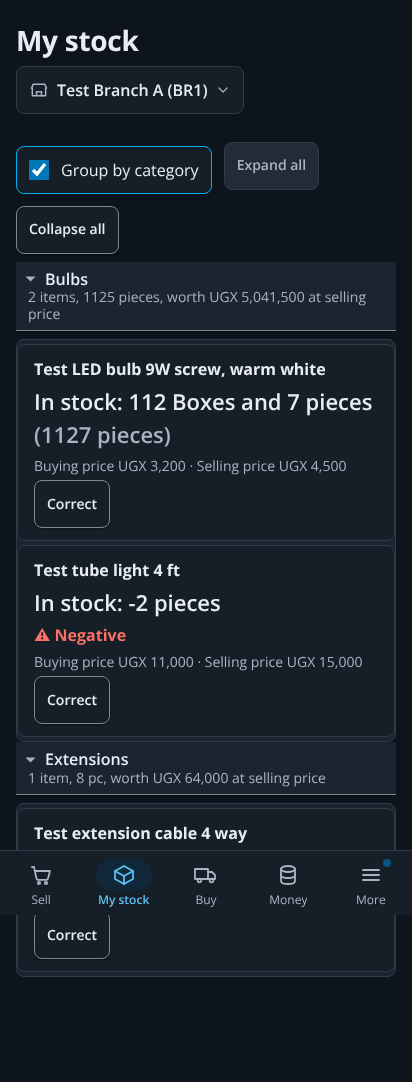
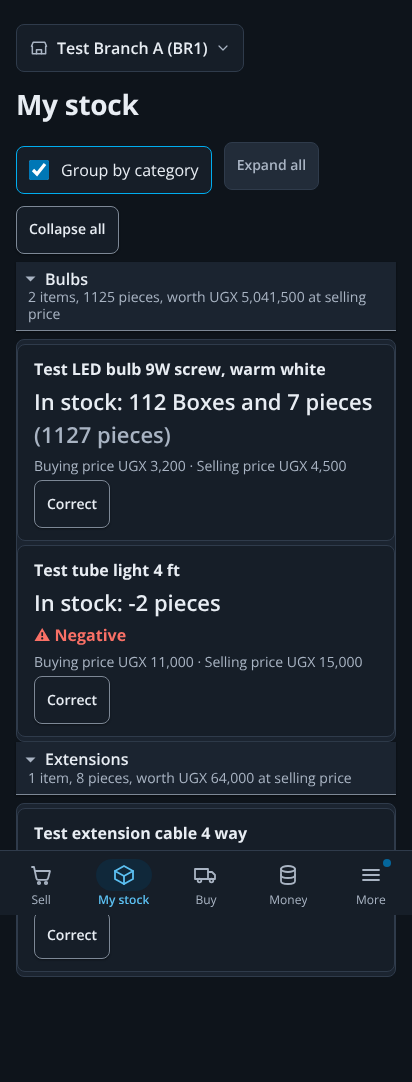
Draw the shop label once in the staff layout, on every page (#680)
ShopHere moves to branch-picker.tsx and the staff layout draws it above
every page's content, phone and laptop, retail or not; Gate and Retail
home no longer draw their own. The text-match route guard is gone:
shop-here-layout.dom.test.tsx renders the real staff layout on the
retail mock and checks one label above the content of a retail page,
More and Approvals. The 412px harness, its pictures, design-system.md
and UI rule 20 follow.

Changed region(s): [[0.0291, 0.0305, 0.5534, 0.122], [0.233, 0.7015, 0.8447, 0.732], [0.932, 0.793, 0.9612, 0.8235]]

diff --git a/frontend/src/areas/staff/retail/shop-here.dom.test.tsx b/frontend/src/areas/staff/retail/shop-here.dom.test.tsx
@@ -1,17 +1,13 @@
 // @vitest-environment jsdom
 import { act, cleanup, fireEvent, render, screen } from '@testing-library/react';
-import { readFileSync, readdirSync } from 'node:fs';
-import { join, resolve } from 'node:path';
 import { afterEach, describe, expect, it, vi } from 'vitest';
 import type { Me } from '../../../api/client';
 import { ALL_BRANCHES } from '../../../auth/branch';
-import { switchedTo, useBranchSwitch } from '../branch-picker';
-import { StaffContext } from '../context';
-import { ShopHere } from './ui';
+import { ShopHere, switchedTo, useBranchSwitch } from '../branch-picker';
 import { TOAST_MS, type ToastTone, useToast } from './toast';
 
-// Issue #680: every retail page names the shop it works in under its title, and one tap there switches shop; every switch says
-// "You are now in <shop>." in the house toast. Every name below is invented.
+// Issue #680: every staff page names the shop it works in above its content, drawn once by the staff layout, and one tap there
+// switches shop; every switch says "You are now in <shop>." in the house toast. Every name below is invented.
 
 const me = {
   user_id: 'u-self',
@@ -27,10 +23,10 @@ const one = { ...me, all_branches: false, branches: [me.branches?.[0]] } as unkn
 function Harness({ who = me, branch = 'b-one', choose }: { who?: Me; branch?: string; choose: (selection: string) => boolean }) {
   const { choose: switchTo, toast } = useBranchSwitch(who, branch, choose);
   return (
-    <StaffContext.Provider value={{ me: who, branch, chooseBranch: switchTo }}>
-      <ShopHere />
+    <>
+      <ShopHere me={who} branch={branch} onChoose={switchTo} />
       {toast}
-    </StaffContext.Provider>
+    </>
   );
 }
 
@@ -62,18 +58,6 @@ describe('the shop under the page title (issue #680)', () => {
     expect(shown()).toBe('All branches');
   });
 
-  // A record page (one invoice, one credit note) shows the branch it belongs to in its own body: switching would not change it.
-  const RECORD_PAGES = ['account.tsx', 'credit-note.tsx', 'purchase-order.tsx', 'return-new.tsx'];
-
-  it('is on every retail page through Gate or ShopHere, bar the named record pages', () => {
-    const dir = resolve('src/areas/staff/retail');
-    const routes = readdirSync(dir).filter((f) => f.endsWith('.tsx') && !f.includes('.test.') && readFileSync(join(dir, f), 'utf8').includes("createLazyRoute('/staff/retail"));
-    expect(routes.length).toBeGreaterThan(40);
-    const missing = routes.filter((f) => !RECORD_PAGES.includes(f) && !/<Gate |<ShopHere /.test(readFileSync(join(dir, f), 'utf8')));
-    expect(missing).toEqual([]);
-    const ui = readFileSync(join(dir, 'ui.tsx'), 'utf8');
-    expect(ui).toMatch(/<h1>\{title\}<\/h1>\s*<ShopHere \/>/);
-  });
 });
 
 describe('the toast on a change of shop (issue #680)', () => {

diff --git a/frontend/src/areas/staff/retail/ui.tsx b/frontend/src/areas/staff/retail/ui.tsx
@@ -9,7 +9,7 @@ import type { Me } from '../../../api/client';
 import { RETAIL_CURRENCY, RetailError, retail, type BranchRole, type Product } from '../../../api/retail';
 import { ALL_BRANCHES, branchLabel } from '../../../auth/branch';
 import { formatMinor } from '../../../components/money';
-import { BranchOptions, useStockedBranches } from '../branch-picker';
+import { useStockedBranches } from '../branch-picker';
 import { useStaff } from '../context';
 import { ItemPhoto, shownPhoto } from './item-photo';
 import { parseCount, qtyString, showQty } from './maths';
@@ -18,7 +18,6 @@ import { plural } from '../../../app/glossary';
 import { BRANCH_ROLES, branchesWhere, canSeeProfit, canUse, capabilityOn, sellingBranches, type RetailScreen } from './permissions';
 import { keptWords } from './orders-state';
 import { NoAccess } from '../../../app/ui/EmptyState';
-import { icons } from '../../../components/icons';
 
 // Shared pieces of the retail screens. Phone first: one column, 44px tap targets, labels on every
 // input, a visible focus ring, and state shown in words as well as colour.
@@ -120,35 +119,8 @@ export function Gate({ screen, title, children, wide }: { screen: RetailScreen; 
   return (
     <main className={wide ? 'rt rt-wide' : 'rt'}>
       <h1>{title}</h1>
-      <ShopHere />
       {children}
     </main>
-  );
-}
-
-/**
- * The shop the page works in, under its title (issue #680): "Test Shop One", or "All branches". With more than one to choose, a
- * native select laid over it opens the phone's own picker in one tap, as the top bar's title does. JUSTIFICATION-A3: a new
- * component the issue asks for, its options shared with the bar and the menu through BranchOptions.
- */
-export function ShopHere() {
-  const { me, branch, chooseBranch } = useStaff();
-  const active = (me.branches ?? []).find((b) => b.id === branch);
-  const choices = chooseBranch ? (me.branches ?? []).length + (me.all_branches ? 1 : 0) : 0;
-  const name = active ? branchLabel(active) : branch === ALL_BRANCHES ? 'All branches' : choices > 1 ? 'Choose a shop' : '';
-  if (!name) return null;
-  return (
-    <p className="shop-here" data-testid="shop-here">
-      <span className="shop-here-icon" aria-hidden="true">{icons.shop}</span>
-      <span className="shop-here-name">{name}</span>
-      {choices > 1 && <span className="shop-here-chevron" aria-hidden="true">{icons.chevron}</span>}
-      {choices > 1 && (
-        <select className="shop-here-select" aria-label={`Shop: ${name}. Switch shop`} value={branch ?? ''} onChange={(e) => chooseBranch?.(e.target.value)}>
-          {!active && branch !== ALL_BRANCHES && <option value="">Choose a shop</option>}
-          <BranchOptions me={me} />
-        </select>
-      )}
-    </p>
   );
 }
 

diff --git a/frontend/layout/my-stock.layout.test.ts b/frontend/layout/my-stock.layout.test.ts
@@ -84,7 +84,7 @@ describe.each([1, 2])('My stock at 412px, font scale %i', (font) => {
     await page.close();
   });
 
-  it('names the shop under the title as a 48px target the switcher covers, and a switch shows the toast', async () => {
+  it('names the shop above the page content as a 48px target the switcher covers, and a switch shows the toast', async () => {
     const page = await open(font);
     const label = page.getByTestId('shop-here');
     expect(await label.textContent()).toContain('Test Branch A (BR1)');
@@ -92,14 +92,14 @@ describe.each([1, 2])('My stock at 412px, font scale %i', (font) => {
       const shop = document.querySelector<HTMLElement>('.shop-here')?.getBoundingClientRect();
       const select = document.querySelector<HTMLElement>('.shop-here-select')?.getBoundingClientRect();
       const title = document.querySelector<HTMLElement>('main h1')?.getBoundingClientRect();
-      return { shop: shop && { top: shop.top, height: shop.height, right: shop.right, width: shop.width }, select: select && { height: select.height, width: select.width }, titleBottom: title?.bottom ?? 0 };
+      return { shop: shop && { bottom: shop.bottom, height: shop.height, right: shop.right, width: shop.width }, select: select && { height: select.height, width: select.width }, titleTop: title?.top ?? 0 };
     });
     expect(boxes.shop?.height ?? 0).toBeGreaterThanOrEqual(48);
     expect(boxes.shop?.right ?? Infinity).toBeLessThanOrEqual(WIDTH);
     // The select covers the label inside its 1px edge, so a tap anywhere on it opens the picker.
     expect(boxes.select?.height ?? 0).toBeGreaterThanOrEqual((boxes.shop?.height ?? 0) - 2);
     expect(boxes.select?.width ?? 0).toBeGreaterThanOrEqual((boxes.shop?.width ?? 0) - 2);
-    expect(boxes.shop?.top ?? 0).toBeGreaterThanOrEqual(boxes.titleBottom);
+    expect(boxes.shop?.bottom ?? Infinity).toBeLessThanOrEqual(boxes.titleTop);
     await page.getByRole('combobox', { name: 'Shop: Test Branch A (BR1). Switch shop' }).selectOption({ label: 'Test Branch B (BR2)' });
     const toast = page.getByRole('status').filter({ hasText: 'You are now in Test Branch B (BR2).' });
     await toast.waitFor();

diff --git a/frontend/layout/my-stock.tsx b/frontend/layout/my-stock.tsx
@@ -6,7 +6,7 @@ import type { Me } from '../src/api/client';
 import type { StockRow } from '../src/api/retail';
 import { mockMe } from '../src/api/retail-mock';
 import { router as appRouter } from '../src/app/router';
-import { useBranchSwitch } from '../src/areas/staff/branch-picker';
+import { ShopHere, useBranchSwitch } from '../src/areas/staff/branch-picker';
 import { StaffContext } from '../src/areas/staff/context';
 import { StockTable } from '../src/areas/staff/retail/stock';
 import { useToast } from '../src/areas/staff/retail/toast';
@@ -15,8 +15,8 @@ import { StaffTabBar } from '../src/areas/staff/tabs';
 import '../src/app/theme.css';
 import '../src/app/ui/index.css';
 
-// The page my-stock.layout.test.ts lays out in a real browser (issue #680): My stock on a phone as a card per item, under the shop
-// label that switches shop, and the toast a switch shows. ?font= scales the root font size as a phone's large text setting does,
+// The page my-stock.layout.test.ts lays out in a real browser (issue #680): My stock on a phone as a card per item, below the shop
+// label the staff layout draws above every page, and the toast a switch shows. ?font= scales the root font size as a phone's large text setting does,
 // ?theme=dark draws the dark theme, ?screenToast=1 a toast of the screen's own. Every name is invented.
 
 const query = new URLSearchParams(window.location.search);
@@ -49,6 +49,7 @@ function Page() {
     <StaffContext.Provider value={{ me, branch, chooseBranch: choose }}>
       <div className="app-shell"><div className="app-content"><div className="nav-layout">
         <div className="nav-layout-main">
+          <ShopHere me={me} branch={branch} onChoose={choose} />
           <Gate screen="stock" title="My stock">
             <StockTable rows={rows} showCost correctable={{ branchId: branch }} />
             {query.get('screenToast') === '1' && <CorrectedToast />}

diff --git a/frontend/src/areas/staff/shop-here-layout.dom.test.tsx b/frontend/src/areas/staff/shop-here-layout.dom.test.tsx
@@ -1,0 +1,30 @@
+// @vitest-environment jsdom
+import { QueryClient, QueryClientProvider } from '@tanstack/react-query';
+import { RouterProvider, createMemoryHistory, createRouter } from '@tanstack/react-router';
+import { cleanup, render, screen, waitFor } from '@testing-library/react';
+import { afterEach, describe, expect, it, vi } from 'vitest';
+
+// Issue #680: the real staff layout on the retail mock draws the shop label once, above the page's content, on a retail page and
+// on pages outside retail alike, so no page can leave it out. The mock switch is read as the modules load, so it is set first.
+
+vi.hoisted(() => vi.stubEnv('VITE_RETAIL_MOCK', '1'));
+const { router: appRouter } = await import('../../app/router');
+
+afterEach(cleanup);
+
+describe('the shop on every staff page (issue #680)', () => {
+  it.each(['/staff/retail/stock', '/staff/more', '/staff/approvals'])('draws the shop once above the content of %s', async (path) => {
+    const router = createRouter({ routeTree: appRouter.routeTree, history: createMemoryHistory({ initialEntries: [path] }) });
+    render(
+      <QueryClientProvider client={new QueryClient({ defaultOptions: { queries: { retry: false } } })}>
+        <RouterProvider router={router} />
+      </QueryClientProvider>,
+    );
+    const label = await screen.findByTestId('shop-here', {}, { timeout: 10_000 });
+    await waitFor(() => expect(document.querySelector('.nav-layout-main main')).not.toBeNull(), { timeout: 10_000 });
+    expect(screen.getAllByTestId('shop-here')).toHaveLength(1);
+    expect(label.parentElement?.classList.contains('nav-layout-main')).toBe(true);
+    const content = document.querySelector('.nav-layout-main main') as Node;
+    expect(label.compareDocumentPosition(content) & Node.DOCUMENT_POSITION_FOLLOWING).toBeTruthy();
+  }, 30_000);
+});

diff --git a/frontend/src/areas/staff/branch-picker.tsx b/frontend/src/areas/staff/branch-picker.tsx
@@ -153,6 +153,31 @@ export function BranchOptions({ me }: { me: Me }) {
   );
 }
 
+/**
+ * The shop the page works in (issue #680): "Test Shop One (HQ)", or "All branches". The staff layout draws it once above every
+ * page's content, phone and laptop. With more than one to choose, a native select laid over it opens the phone's own picker in
+ * one tap, as the top bar's title does. JUSTIFICATION-A3: the component the issue asks for, moved to the layout.
+ */
+export function ShopHere({ me, branch, onChoose }: { me: Me; branch: string | null; onChoose: (selection: string) => void }) {
+  const active = (me.branches ?? []).find((b) => b.id === branch);
+  const choices = (me.branches ?? []).length + (me.all_branches ? 1 : 0);
+  const name = active ? branchLabel(active) : branch === ALL_BRANCHES ? 'All branches' : choices > 1 ? 'Choose a shop' : '';
+  if (!name) return null;
+  return (
+    <p className="shop-here" data-testid="shop-here">
+      <span className="shop-here-icon" aria-hidden="true">{icons.shop}</span>
+      <span className="shop-here-name">{name}</span>
+      {choices > 1 && <span className="shop-here-chevron" aria-hidden="true">{icons.chevron}</span>}
+      {choices > 1 && (
+        <select className="shop-here-select" aria-label={`Shop: ${name}. Switch shop`} value={branch ?? ''} onChange={(e) => onChoose(e.target.value)}>
+          {!active && branch !== ALL_BRANCHES && <option value="">Choose a shop</option>}
+          <BranchOptions me={me} />
+        </select>
+      )}
+    </p>
+  );
+}
+
 /** Up to two capitals from a name, for a business with no logo: "Test Shop 01" gives "TS". */
 export function initials(name: string): string {
   return name

diff --git a/frontend/src/areas/staff/route.tsx b/frontend/src/areas/staff/route.tsx
@@ -20,7 +20,7 @@ import { RefreshButton } from '../../app/refresh-button';
 import { useHelpSheet } from '../../tour/host';
 import { BrandLoader } from '../../components/states';
 import { BillingBanner } from './billing/banner';
-import { MenuShop, initials, useActiveBranch, useBranchSwitch } from './branch-picker';
+import { MenuShop, ShopHere, initials, useActiveBranch, useBranchSwitch } from './branch-picker';
 import { BranchTitle, OfflineBanner, SignOutEverywhere, TopMenu } from './top-bar';
 import { StaffContext, useOptionalStaff } from './context';
 import { FeatureSearch } from './feature-search';
@@ -212,6 +212,7 @@ function StaffLayout() {
                 <StaffBreadcrumbs />
                 {!mustSetUp(profile) && <HowDoILink pathname={pathname} me={profile} />}
               </div>
+              {!mustSetUp(profile) && <ShopHere me={profile} branch={branch} onChoose={choose} />}
               {mustSetUp(profile) ? <OwnTwoStep blocking /> : <Outlet />}
               <SignOutWarning ask={askSignOut} onSignOut={() => void signOut(true)} />
               <SignOutEverywhere open={askEverywhere} waiting={waitingNow(offline)} busy={signingOut} onConfirm={() => void signOut(true, true)} onClose={() => setAskEverywhere(false)} />

diff --git a/frontend/src/areas/staff/retail/home.tsx b/frontend/src/areas/staff/retail/home.tsx
@@ -5,7 +5,7 @@ import { useStaff } from '../context';
 import { RetailDashboard } from './dashboard';
 import { OwnSales } from './own-sales';
 import { ALL_SELLERS, WHOLESALE_SCREENS, canUse, holds, screensFor, showRetail } from './permissions';
-import { ShopHere, useCanSellAnywhere } from './ui';
+import { useCanSellAnywhere } from './ui';
 import { NoAccess } from '../../../app/ui/EmptyState';
 
 // The Retail landing page: one big tile per screen the session may use. Nothing else is listed. The wholesale tools' pages
@@ -31,7 +31,6 @@ export function RetailHome() {
           <p>What would you like to do?</p>
         </div>
       </div>
-      <ShopHere />
       {dashboard && ownerFirst && <RetailDashboard />}
       {all.length === 0 && <NoAccess what="any retail pages" />}
       {screens.length > 0 && (

diff --git a/frontend/src/app/ui/retail.css b/frontend/src/app/ui/retail.css
@@ -19,11 +19,8 @@
   margin-bottom: var(--space-4);
 }
 
-/* Issue #680: the shop the page works in, under its title, a 48px target that opens the branch picker in one tap. */
-.rt > h1:has(+ .shop-here) {
-  margin-bottom: var(--space-2);
-}
-
+/* Issue #680: the shop the page works in, drawn by the staff layout above every page's content, a 48px target that opens the
+   branch picker in one tap. */
 .shop-here {
   position: relative;
   display: inline-flex;

diff --git a/docs/ui/design-system.md b/docs/ui/design-system.md
@@ -140,7 +140,7 @@ The platform host and a tenant without a colour show the Rincol blue.
 | Tour rules (issue #292) | `tour/model.ts` `autoTourFor`, `host.tsx` | At most one tour starts by itself per page load; the rest wait for the next visit. A user with no tour history gets only the first-run (Welcome) tour, and every "New:" tour is marked seen for them at that moment, since they have nothing to compare against. One "Do not show tours again" checkbox (progress key `tours-off`) stops every automatic tour, "New:" ones included; Help still replays any tour |
 | Top bar (#526) | `StaffBar` (`areas/staff/route.tsx`) with `BranchTitle`, `TopMenu` and `OfflineBanner` (`areas/staff/top-bar.tsx`); `.staff-bar`, `.top-title`, `.top-menu`, `.offline-banner` in `ui/navigation.css` | The staff area's one 56px bar, sticky: on a phone the business small above the branch in use as the title (a native select laid over it switches branch; from 720px both are at the top of the sidebar instead, #564), Search, Refresh beside it (issue #631: named Refresh, a 48px target, its icon alone below 720px, its words and when the page was loaded from 720px), the sync dot only with news, and one menu (a disclosure, Escape and a press outside close it) holding who is signed in, Help, the theme as a Segmented, and Sign out (from 720px, or while two-step set-up blocks the page). The shell draws no brand bar in the staff area, and its Powered-by footer only on More, Business set-up and Retail settings. Offline, a neutral banner under the bar says so |
 | My stock cards (#680) | `StockTable` (`areas/staff/retail/stock.tsx`) below 720px; `.stock-cards`, `.stock-card`, `.stock-card-qty` in `ui/retail.css` | One shop's stock on a phone is a `.rt-card` per item, no stripe: the name, "In stock: 8 pieces" at `--text-xl` in tabular figures (the total in pieces wraps under it), the Negative flag, then "Buying price UGX 6,000 · Selling price UGX 8,000" small (the buying price only for a reader of costs), and Correct as a 48px secondary button. A group header reads "1 item, 8 pieces, worth UGX 64,000 at selling price". A quantity reads in its unit in full words with a plural by the number ("1 piece", "8 pieces"), never a short code: a unit stored as a known short code (pc, pcs, ltr, kg, ctn, pkt, mtr) reads as its word ("8 pc" is "8 pieces", "2 ltr" is "2 litres"; the map `UNIT_WORDS` and `quantityIn` in `units-state.ts`). From 720px the table stays, headed Average buying price and Selling price. `layout/my-stock.layout.test.ts` lays it out at 412px (default and double font, dark), pictures in `docs/ui/shop-owner-clarity-680` |
-| Shop here (#680) | `ShopHere` (`areas/staff/retail/ui.tsx`), drawn by `Gate` under every retail page's title and on Retail home; `BranchOptions` and `useBranchSwitch` (`areas/staff/branch-picker.tsx`); `.shop-here`, `.shop-here-name`, `.shop-here-select` in `ui/retail.css` | The shop the page works in, in plain words ("Test Shop One (HQ)", or All branches), with the shop icon: a hairline-edged 48px row, no stripe. With more than one branch to choose, a native select laid over it (named "Shop: <name>. Switch shop") opens the phone's own picker in one tap. Every change of branch, from here, the top bar or the menu, shows the dark neutral info toast "You are now in <shop>." (All branches: "You now see all branches.") for 4 seconds, announced politely; nothing when a screen holds the branch. One toast at a time on the whole page: a toast that shows hides every other one `useToast` holds (`toast.tsx`), so the switch toast replaces a screen's toast, even an error, and the screen's next toast replaces it; no CSS hides a toast. Record pages (one invoice, credit note, order, customer account, a return) show their own branch in the body instead. Tests `shop-here.dom.test.tsx` |
+| Shop here (#680) | `ShopHere`, `BranchOptions` and `useBranchSwitch` (`areas/staff/branch-picker.tsx`), `ShopHere` drawn once by the staff layout (`areas/staff/route.tsx`) above every staff page's content, phone and laptop; `.shop-here`, `.shop-here-name`, `.shop-here-select` in `ui/retail.css` | The shop the page works in, in plain words ("Test Shop One (HQ)", or All branches), with the shop icon: a hairline-edged 48px row, no stripe. With more than one branch to choose, a native select laid over it (named "Shop: <name>. Switch shop") opens the phone's own picker in one tap. Every change of branch, from here, the top bar or the menu, shows the dark neutral info toast "You are now in <shop>." (All branches: "You now see all branches.") for 4 seconds, announced politely; nothing when a screen holds the branch. One toast at a time on the whole page: a toast that shows hides every other one `useToast` holds (`toast.tsx`), so the switch toast replaces a screen's toast, even an error, and the screen's next toast replaces it; no CSS hides a toast. A record page (one invoice, credit note, order, customer account, a return) also shows its own branch in its body. Tests `shop-here.dom.test.tsx`, and `shop-here-layout.dom.test.tsx`, which renders the real staff layout on the retail mock |
 | Ask button (#603) | `AskButton` (`areas/staff/help/how-do-i.tsx`) in `StaffBar` after Search; `.ask-open`, `.ask-open-word` in `ui/navigation.css`; the `ask` icon | On every staff screen but `/staff/help` itself and the minimal header of blocking two-step set-up: the ask icon and the word Ask (named Ask BMS) while the business has Ask BMS on, else How do I? (never Help, the top menu's tours sheet), ", New" in its name while the dot shows, a 48px target, the word hidden below 430px so the branch name stays readable (#605); `layout/header.layout.test.ts` lays the bar out at 360, 390 and 412px. It opens `/staff/help#ask`, where the cursor lands in the question box (the article search while Ask BMS is off or the phone is offline), and carries the help page's New dot until the person first opens `/staff/help` |
 | Help | `useHelpSheet` and `HelpMenu` (`tour/host.tsx`) | A `dialog.sheet` with Take the tour and Show me this page; the staff area opens it from the top bar's menu |
 | Sync status (issue #458, ADR-067) | `SyncStatus` in `frontend/src/offline/sync-status.tsx`, mounted in the top bar before Search, its dot drawn only while offline, sending, or with sales waiting or failed, and always for a manager (`retail.offline.resolve`), whose sheet settles other phones' sales (#526); `.sync-status`, `.sync-dot`, `.sync-dot-offline`, `.sync-dot-syncing`, `.sync-word`, `.sync-count` (`.sync-long`, `.sync-short`), `.sync-list`, `.sync-row`, `.sync-row-failed`, `.sync-reason` | A 12px dot, `--color-success` online, `--color-text-muted` offline, `--color-warning` while sending (a slow pulse, still with `prefers-reduced-motion`), with the state as visible text beside it (Online, Offline, Syncing) and "3 waiting to sync" ("3 waiting" at 480px and below); below 430px, in every state, it is the dot and the number waiting alone ("3"), so the branch name keeps its room (#605). The button's accessible name says the state, the count and the failed ones ("Offline, 3 waiting to sync, 1 failed"), so colour never carries the meaning alone (WCAG 1.4.1), and offline the banner under the bar says it in words; it is a 48px target (`--tap`, width and height, held by `layout/header.layout.test.ts`). Tapping it opens a `dialog.sheet` (a bottom sheet below 560px): the queued and failed sales with the time, branch, way of paying, total and the reason of a failure, Send again, Sync now, and for a manager the sales other phones could not record (Send it again, Discard with a reason) and the open clashes (Mark resolved with a note). It lives in the staff bar, not the shell's header, so it never sits beside the theme selector or a phone menu. Drawn only for a person who sells |

diff --git a/docs/ui-rules.md b/docs/ui-rules.md
@@ -105,7 +105,8 @@ back to what opened it.
     second (issue #605; at a phone's double text size, their first two letters). An offline banner sits under the bar while the device has no network. The Powered-by footer
     shows only on More and the settings pages, and the page colour fills the viewport.
 20. A phone shows one crumb, a back chevron and "Back to" the parent, with no slash; a screen never adds a second Back to
-    link under its title, nor a "Branch: X" line, since the top bar names the branch: a write screen records at exactly that
+    link under its title, nor a "Branch: X" line, since the top bar and the shop label the staff layout draws above every page
+    (`ShopHere`, issue #680) name the branch: a write screen records at exactly that
     branch or asks for one (`useSingleBranch`, `useStockingBranch`, held by `branch-scope.test.tsx`).
 21. An empty list, a "nothing in this range" and a no-access state are one plain line with at most one action, with no
     border or box. The no-access line (`NoAccess`) says who can give access and links Home.
